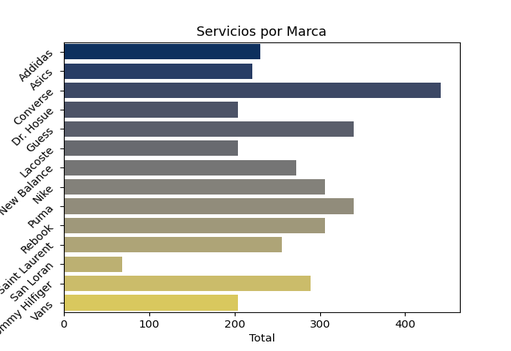
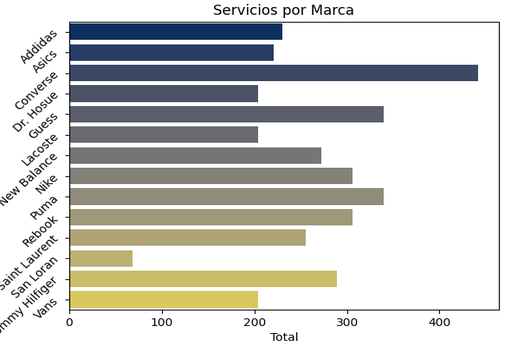
rectaFinal2

diff --git a/main.py b/main.py
@@ -324,7 +324,7 @@ class DashboardScreen(QMainWindow):
         plt.savefig("graficas/clientes1.png")
         #resize image with PIL
         img = Image.open("graficas/clientes1.png")
-        img = img.resize((resizePequeño,resizePequeño), Image.ANTIALIAS)
+        img = img.resize((resizePequeño,resizePequeño), Image.LANCZOS)
         img.save("graficas/clientes1.png")
         self.clientes_graphicsView_1.setStyleSheet("background-image: url(graficas/clientes1.png);")
         #limpiar variables
@@ -333,31 +333,7 @@ class DashboardScreen(QMainWindow):
         #------------------------
         #clientes_graphicsView_2
         #------------------------
-        #Grafica histplot sobre la edad de los clientes
-        cursor.execute("SELECT FechaNacimiento FROM cliente")
-        result = cursor.fetchall()
-        df = pd.DataFrame(result)
-        df.columns = ["FechaNacimiento"]
-        #Formato de fecha en db es dd/mm/yyyy
-        #Se convierte a yyyy
-        df["FechaNacimiento"] = df["FechaNacimiento"].str.slice(start=6)
-        df["FechaNacimiento"] = df["FechaNacimiento"].astype(int)
-        df["FechaNacimiento"] = 2023 - df["FechaNacimiento"]
-        #Verificar que no haya edades menores a 10 ni mayores a 100 años y si hay ponerlos entre 10 y 50
-        for i in range(len(df["FechaNacimiento"])):
-            if df["FechaNacimiento"][i] < 10 or df["FechaNacimiento"][i] > 100:
-                df["FechaNacimiento"][i] = random.randint(10,50)
-        plt.figure (figsize=(4,4))
-        plt.title("Número de clientes por edad")
-        plt.ylabel("Total")
-        plt.xlabel("Edad")
-        plt.hist(df["FechaNacimiento"], bins=10, color="#F2C94C")
-        plt.savefig("graficas/clientes2.png")
-        img = Image.open("graficas/clientes2.png")
-        img = img.resize((resizePequeño,resizePequeño), Image.ANTIALIAS)
-        img.save("graficas/clientes2.png")
-        self.clientes_graphicsView_2.setStyleSheet("background-image: url(graficas/clientes2.png);")
-        plt.close()
+       
 
         #------------------------
         #clientes_graphicsView_3
@@ -374,67 +350,72 @@ class DashboardScreen(QMainWindow):
         plt.savefig("graficas/clientes3.png")
         #resize image with PIL
         img = Image.open("graficas/clientes3.png")
-        img = img.resize((511,351), Image.ANTIALIAS)
+        img = img.resize((511,351), Image.LANCZOS)
         img.save("graficas/clientes3.png")
         self.clientes_graphicsView_3.setStyleSheet("background-image: url(graficas/clientes3.png);")
         #limpiar variables
         plt.close()
 
         #------------------------
-        #clientes_graphicsView_4
+        #clientes_graphicsView_5
         #------------------------
         #Gráfica de barras Horizontal
         #De los clientes que tengan mas TotalServicios, mostrar los 10 primeros con nombre
         cursor.execute("SELECT NombreCliente, ApellidoCLiente, TotalServicios FROM cliente ORDER BY TotalServicios DESC LIMIT 10")
         result = cursor.fetchall()
-        df = pd.DataFrame(result) 
-        df.columns = ["Nombre", "Apellido", "TotalServicios"] 
-        plt.figure (figsize=(4,8))
-        df["Nombre"] = df["Nombre"] + " " + df["Apellido"]
-        df = df.drop(["Apellido"], axis=1) #eliminar columna Apellido 
-        #inclinar los nombres
-        plt.yticks(rotation=45)
+        df = pd.DataFrame(result)
+        df.columns = ["Nombre", "Apellido", "TotalServicios"]
+        plt.figure (figsize=(5,5))
+        plt.xticks(rotation=-45)
         plt.title("Clientes con mas servicios")
-        sns.barplot(x="TotalServicios", y="Nombre", data=df, palette="cividis")
-        plt.savefig("graficas/clientes4.png")
-        img = Image.open("graficas/clientes4.png")
-        img = img.resize((341,621), Image.ANTIALIAS)
-        img.save("graficas/clientes4.png")
-        self.clientes_graphicsView_4.setStyleSheet("background-image: url(graficas/clientes4.png);")
+        sns.barplot(x="Nombre", y="TotalServicios", data=df, palette="cividis")
+        plt.savefig("graficas/clientes5.png")
+        img = Image.open("graficas/clientes5.png")
+        img = img.crop((0, 30, 500, 500))
+        img = img.resize((531,250), Image.LANCZOS)
+        img.save("graficas/clientes5.png")
+        self.clientes_graphicsView_5.setStyleSheet("background-image: url(graficas/clientes5.png);")
+        #limpiar variables
         plt.close()
+
+
+
+        self.clientes_graphicsView_4.setStyleSheet("background-image: url(graficas/MJ_Cuadro.jpg);")
 
         #------------------------
         #clientes_graphicsView_5
         #------------------------
         #Grafica de barras, clientes por mes de registro
-        self.clientes_graphicsView_5.setStyleSheet("background-image: url(graficas/logo.jpg);")
-        
-
-
-        #------------------------
-        #clientes_graphicsView_6
-        #------------------------
-        # cursor.execute("SELECT STRFTIME('%m', datetime(FechaRegistro, 'unixepoch')) as Mes, COUNT(*) as total FROM cliente GROUP BY STRFTIME('%m', datetime(FechaRegistro, 'unixepoch'))")
-        # result = cursor.fetchall()
-        # df = pd.DataFrame(result)
-        # df.columns = ["Mes", "Total"]
-        # plt.figure (figsize=(4,4))
-        # plt.title("Clientes registrados por mes")
-        # plt.xticks(rotation = 45)
-        # sns.barplot(x="Mes", y="Total", data=df, palette="cividis")
-        # #download image
-        # plt.savefig("graficas/clientes7.png")
-        # #resize image with PIL
-        # img = Image.open("graficas/clientes6.png")
-        # img = img.resize((461,331), Image.ANTIALIAS)
-        # img.save("graficas/clientes7.png")
-        # self.clientes_graphicsView_7.setStyleSheet("background-image: url(graficas/clientes7.png);")
-        # plt.close()
+        #self.clientes_graphicsView_5.setStyleSheet("background-image: url(graficas/logo.jpg);")
         
         #------------------------
         #clientes_graphicsView_7
         #------------------------
-        #Gráfica de barras
+         #Grafica histplot sobre la edad de los clientes
+        cursor.execute("SELECT FechaNacimiento FROM cliente")
+        result = cursor.fetchall()
+        df = pd.DataFrame(result)
+        df.columns = ["FechaNacimiento"]
+        #Formato de fecha en db es dd/mm/yyyy
+        #Se convierte a yyyy
+        df["FechaNacimiento"] = df["FechaNacimiento"].str.slice(start=6)
+        df["FechaNacimiento"] = df["FechaNacimiento"].astype(int)
+        df["FechaNacimiento"] = 2023 - df["FechaNacimiento"]
+        #Verificar que no haya edades menores a 10 ni mayores a 100 años y si hay ponerlos entre 10 y 50
+        for i in range(len(df["FechaNacimiento"])):
+            if df["FechaNacimiento"][i] < 10 or df["FechaNacimiento"][i] > 100:
+                df["FechaNacimiento"][i] = random.randint(10,50)
+        plt.figure (figsize=(5,4))
+        plt.title("Número de clientes por edad")
+        plt.ylabel("Total")
+        plt.xlabel("Edad")
+        plt.hist(df["FechaNacimiento"], bins=10, color="#F2C94C")
+        plt.savefig("graficas/clientes7.png")
+        img = Image.open("graficas/clientes7.png")
+        img = img.resize((461,331), Image.LANCZOS)
+        img.save("graficas/clientes7.png")
+        self.clientes_graphicsView_7.setStyleSheet("background-image: url(graficas/clientes7.png);")
+        plt.close()
         
 
         #------------------------
@@ -447,11 +428,19 @@ class DashboardScreen(QMainWindow):
         df.columns = ["TipoCalzado", "Total"]
         plt.figure (figsize=(4,4))
         plt.title("Tipos de Calzado")
-        plt.pie(df["Total"], labels=df["TipoCalzado"], autopct="%1.1f%%", shadow=False, startangle=90, colors=["#BAA050", "#0a17ad", "#FABC00", "#0a17ad", "#FABC00"])
+        explode = (0.05, 0.05, 0.05, 0.05, 0.05)
+        plt.pie(df["Total"], labels=df["TipoCalzado"], autopct="%1.1f%%", shadow=False, startangle=90, colors=["#BAA050", "#87CEEB", "#FABC00", "#87CEEB", "#FABC00"], pctdistance=0.85, explode=explode)
+
+        #----------------------------------------------
+        centre_circle = plt.Circle((0, 0), 0.60, fc='white')
+        fig = plt.gcf()
+        fig.gca().add_artist(centre_circle)
+        #-----------------------------------------------
+
         plt.axis("equal")
         plt.savefig("graficas/calzado1.png")
         img = Image.open("graficas/calzado1.png")
-        img = img.resize((resizePequeño,resizePequeño), Image.ANTIALIAS)
+        img = img.resize((resizePequeño,resizePequeño), Image.LANCZOS)
         img.save("graficas/calzado1.png")
         self.calzado_graphicsView_1.setStyleSheet("background-image: url(graficas/calzado1.png);")
         plt.close()
@@ -466,11 +455,11 @@ class DashboardScreen(QMainWindow):
         df.columns = ["Materiales", "Total"]
         plt.figure (figsize=(4,4))
         plt.title("Materiales del Calzado")
-        plt.pie(df["Total"], labels=df["Materiales"], autopct="%1.1f%%", shadow=False, startangle=90, colors=["#FABC00", "#0a17ad", "#FABC00", "#0a17ad", "#FABC00", "#0a17ad", "#BAA050"])
+        plt.pie(df["Total"], labels=df["Materiales"], autopct="%1.1f%%", shadow=False, startangle=90, colors=["#FABC00", "#87CEEB", "#FABC00", "#87CEEB", "#FABC00", "#87CEEB", "#BAA050"])
         plt.axis("equal")
         plt.savefig("graficas/calzado3.png")
         img = Image.open("graficas/calzado3.png")
-        img = img.resize((resizePequeño,resizePequeño), Image.ANTIALIAS)
+        img = img.resize((resizePequeño,resizePequeño), Image.LANCZOS)
         img.save("graficas/calzado3.png")
         self.calzado_graphicsView_3.setStyleSheet("background-image: url(graficas/calzado3.png);")
         plt.close()
@@ -488,16 +477,36 @@ class DashboardScreen(QMainWindow):
         sns.barplot(x="Total", y="Marca", data=df, palette="cividis")
         plt.savefig("graficas/calzado4.png")
         img = Image.open("graficas/calzado4.png")
-        img = img.resize((resizeGrande1,resizeGrande2), Image.ANTIALIAS)
+        img = img.crop((0, 30, 590, 480))
+        img = img.resize((resizeGrande1,resizeGrande2), Image.LANCZOS)
         img.save("graficas/calzado4.png")
         self.calzado_graphicsView_4.setStyleSheet("background-image: url(graficas/calzado4.png);")
+        plt.close()
+
+        #------------------------
+        #calzado_graphicsView_5
+        #------------------------
+        cursor.execute("SELECT A.Materiales, (COUNT(A.Materiales)*B.Costo) AS Ganancia FROM calzado A, servicio B WHERE A.ServicioContratado = B.NombreServicio GROUP BY A.Materiales")
+        result = cursor.fetchall()
+        df = pd.DataFrame(result)
+        df.columns = ["Materiales", "Total"]
+        plt.figure (figsize=(7,5))
+        plt.title("Ganancias por tipo de Material")
+        plt.bar(df["Materiales"], df["Total"], color=["#FABC00", "#87CEEB", "#FABC00", "#87CEEB", "#FABC00", "#87CEEB"])
+        plt.savefig("graficas/calzado5.png")
+        img = Image.open("graficas/calzado5.png")
+        #recortar imagen parte de arriba
+        img = img.crop((0, 00, 650, 500))
+        img = img.resize((341,621), Image.LANCZOS)
+        img.save("graficas/calzado5.png")
+        self.calzado_graphicsView_5.setStyleSheet("background-image: url(graficas/calzado5.png);")
         plt.close()
 
 
         #------------------------
         #calzado_graphicsView_6
         #------------------------
-        # grafica de barras, con la marca de calzado y el total de calzado de esa marca
+        # grafica , con la marca de calzado y el total de calzado de esa marca
         cursor.execute("SELECT Talla, COUNT(*) FROM calzado GROUP BY Talla")
         result = cursor.fetchall()
         df = pd.DataFrame(result) 
@@ -506,10 +515,10 @@ class DashboardScreen(QMainWindow):
         plt.yticks(rotation=0)
         plt.xticks(rotation = 45)
         plt.title("Tallas usuales")
-        sns.barplot(x="Total", y="Talla", data=df, palette="cividis")
+        plt.stem(df["Total"], df["Talla"], use_line_collection=True)
         plt.savefig("graficas/calzado6.png")
         img = Image.open("graficas/calzado6.png")
-        img = img.resize((resizeGrande3,resizeGrande4), Image.ANTIALIAS)
+        img = img.resize((resizeGrande3,resizeGrande4), Image.LANCZOS)
         img.save("graficas/calzado6.png")
         self.calzado_graphicsView_6.setStyleSheet("background-image: url(graficas/calzado6.png);")
         plt.close()
@@ -523,12 +532,16 @@ class DashboardScreen(QMainWindow):
         df = pd.DataFrame(result)
         df.columns = ["ServicioContratado", "Total"]
         plt.figure (figsize=(4,4))
-        plt.title("Servicios contratados")
-        plt.pie(df["Total"], labels=df["ServicioContratado"], autopct="%1.1f%%", shadow=False, startangle=90, colors=["#FABC00", "#0a17ad", "#FABC00", "#0a17ad", "#FABC00", "#0a17ad"])
+        plt.title("Servicios contratados") 
+        explode = (0.05, 0.05, 0.05, 0.05, 0.05, 0.05)
+        plt.pie(df["Total"], labels=df["ServicioContratado"], autopct="%1.1f%%", shadow=False, startangle=90, colors=["#FABC00", "#87CEEB", "#FABC00", "#87CEEB", "#FABC00", "#87CEEB"], pctdistance=0.85, explode=explode)
+        centre_circle = plt.Circle((0, 0), 0.60, fc='white')
+        fig = plt.gcf()
+        fig.gca().add_artist(centre_circle)
         plt.axis("equal")
         plt.savefig("graficas/calzado7.png")
         img = Image.open("graficas/calzado7.png")
-        img = img.resize((resizePequeño2,resizePequeño2), Image.ANTIALIAS)
+        img = img.resize((resizePequeño2,resizePequeño2), Image.LANCZOS)
         img.save("graficas/calzado7.png")
         self.calzado_graphicsView_7.setStyleSheet("background-image: url(graficas/calzado7.png);")
         plt.close()
@@ -538,25 +551,42 @@ class DashboardScreen(QMainWindow):
         #------------------------
         #grafica de tendencia de FechaLlegada del calzado
 
-        self.calzado_graphicsView_5.setStyleSheet("background-image: url(graficas/logo.jpg);")
+        
+        
+        img = Image.open("graficas/logo.jpg")
+        img = img.crop((50, 50, 480, 720))
+        img.save("graficas/logo1.jpg")
+        self.calzado_graphicsView_5.setStyleSheet("background-image: url(graficas/logo1.jpg);")
+
+
         self.calzado_graphicsView_8.setStyleSheet("background-image: url(graficas/logo.jpg);")
 
         #------------------------
         #empleados_graphicsView_1
         #------------------------
-        
+
 
         #------------------------
         #empleados_graphicsView_3
         #------------------------
-        #Grafica de columnas Seleccionar ServicioContratado de calzado lo contamos y lo multiplicamos por el costo de la tabla servicio
-        # cursor.execute("SELECT NombreServicio, Costo, 00.St_ FROM servicio, (SELECT ServicioContratado, COUNT(*) FROM calzado GROUP BY ServicioContratado END AS St_)00 ")
-        # result = cursor.fetchall()
-        # df = pd.DataFrame(result)
-        # print(df)
-        
-
-        self.empleados_graphicsView_3.setStyleSheet("background-image: url(graficas/logo.jpg);")
+        #Grafica pastel Seleccionar ServicioContratado de calzado lo contamos y lo multiplicamos por el costo de la tabla servicio
+        cursor.execute("SELECT A.ServicioContratado, (COUNT(A.ServicioContratado)*B.Costo) AS Ganancia FROM calzado A, servicio B WHERE A.ServicioContratado = B.NombreServicio GROUP BY ServicioContratado")
+        result = cursor.fetchall()
+        df = pd.DataFrame(result)
+        df.columns = ["ServicioContratado", "Total"]
+        plt.figure (figsize=(4,4))
+        plt.title("Porcentaje de ganancias por servicio")
+        plt.pie(df["Total"], labels=df["ServicioContratado"], autopct="%1.1f%%", shadow=False, startangle=90, colors=["#FABC00", "#87CEEB", "#FABC00", "#87CEEB", "#FABC00", "#87CEEB"])
+        centre_circle = plt.Circle((0, 0), 0.60, fc='white')
+        fig = plt.gcf()
+        fig.gca().add_artist(centre_circle)
+        plt.axis("equal")
+        plt.savefig("graficas/empleados3.png")
+        img = Image.open("graficas/empleados3.png")
+        img = img.resize((resizePequeño2,resizePequeño2), Image.LANCZOS)
+        img.save("graficas/empleados3.png")
+        self.empleados_graphicsView_3.setStyleSheet("background-image: url(graficas/empleados3.png);")
+        plt.close()
 
         #------------------------
         #empleados_graphicsView_4
@@ -572,30 +602,37 @@ class DashboardScreen(QMainWindow):
         sns.barplot(x="Nombre", y="Total", data=df, palette="cividis")
         plt.savefig("graficas/empleados4.png")  
         img = Image.open("graficas/empleados4.png")
-        img = img.resize((resizeGrande1,resizeGrande2), Image.ANTIALIAS)
+        img = img.crop((0, 25, 400, 400))
+        img = img.resize((resizeGrande1,resizeGrande2), Image.LANCZOS)
         img.save("graficas/empleados4.png")
         self.empleados_graphicsView_4.setStyleSheet("background-image: url(graficas/empleados4.png);")
 
-        self.empleados_graphicsView_5.setStyleSheet("background-image: url(graficas/logo.jpg);")
+        img = Image.open("graficas/logoTenis.png")
+        img = img.resize((900,641), Image.LANCZOS)
+        img = img.crop((275, 0, 720, 641))
+        img.save("graficas/logoTenis1.png")
+        self.empleados_graphicsView_5.setStyleSheet("background-image: url(graficas/logoTenis1.png);")
 
         #------------------------
         #empleados_graphicsView_6
         #------------------------
-        #Grafica lineplot de FechaLlegada de calzado por meses
-        cursor.execute("SELECT FechaLlegada, COUNT(*) FROM calzado GROUP BY FechaLlegada")
+        #Grafica pastel Seleccionar ServicioContratado de calzado lo contamos y lo multiplicamos por el costo de la tabla servicio
+        cursor.execute("SELECT A.ServicioContratado, (COUNT(A.ServicioContratado)*B.Costo) AS Ganancia FROM calzado A, servicio B WHERE A.ServicioContratado = B.NombreServicio GROUP BY ServicioContratado")
         result = cursor.fetchall()
         df = pd.DataFrame(result)
-        df.columns = ["FechaLlegada", "Total"]
-        plt.figure (figsize=(4,4))
-        plt.title("Fecha de llegada de calzado")
-        plt.xticks(rotation = 45)
-        sns.lineplot(x="FechaLlegada", y="Total", data=df, palette="cividis")
+        df.columns = ["ServicioContratado", "Total"]
+        plt.figure (figsize=(8,7))
+        plt.title("Porcentaje de ganancias por servicio")
+        plt.bar(df["ServicioContratado"], df["Total"], color=["#FABC00", "#87CEEB", "#FABC00", "#87CEEB", "#FABC00", "#87CEEB"])
         plt.savefig("graficas/empleados6.png")
         img = Image.open("graficas/empleados6.png")
-        img = img.resize((461,301), Image.ANTIALIAS)
+        #recortar imagen parte de arriba
+        img = img.crop((0, 55, 800, 700))
+        img = img.resize((resizeGrande3,resizeGrande4), Image.LANCZOS)
         img.save("graficas/empleados6.png")
         self.empleados_graphicsView_6.setStyleSheet("background-image: url(graficas/empleados6.png);")
         plt.close()
+
 
         self.empleados_graphicsView_7.setStyleSheet("background-image: url(graficas/logo.jpg);")
         self.empleados_graphicsView_8.setStyleSheet("background-image: url(graficas/logo.jpg);")
@@ -661,7 +698,7 @@ def prepareDatabase():
     #             con.execute(instruccion)
     #             con.commit()
     #             con.close()
-  
+
 def verificarServicios():
     con = sql.connect("cleanwalkers.db")
     cursor = con.cursor()
@@ -683,8 +720,8 @@ def verificarServicios():
         con.close()
 
 #Main
-prepareDatabase()
-verificarServicios()
+# prepareDatabase()
+# verificarServicios()
 app = QApplication(sys.argv)
 welcome = DashboardScreen() #WelcomeScreen CAMBIAR
 widget = QtWidgets.QStackedWidget()
